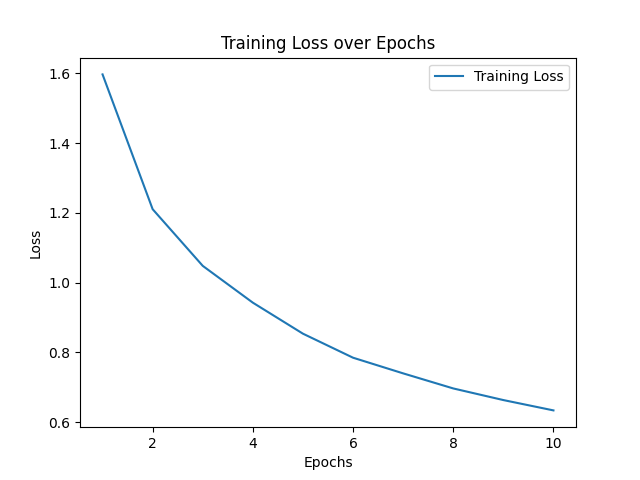
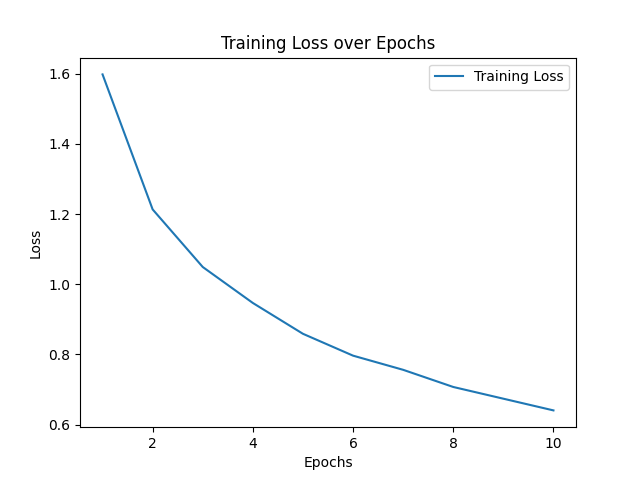
Reduce computational load and improve performance
- Adjusted batch size to reduce memory usage and computational load.
- Optimized data loader settings to enhance data loading efficiency.
- Lowered learning rate for more stable training.
- Implemented Mixed Precision Training using torch.cuda.amp for better performance.
- Updated train_model and evaluate_model functions to prioritize MPS when available, fallback to CUDA or CPU.

diff --git a/src/train.py b/src/train.py
@@ -4,14 +4,16 @@ import torch.nn as nn
 import matplotlib.pyplot as plt
 from src.data_loader import load_data
 import os
+from torch.cuda.amp import GradScaler, autocast
 
-def train_model(model_fn, epochs=10, batch_size=32, learning_rate=0.001, save_path='./results'):
+def train_model(model_fn, epochs=10, batch_size=16, learning_rate=0.0005, save_path='./results'):
     device = torch.device("mps" if torch.backends.mps.is_available() else "cuda" if torch.cuda.is_available() else "cpu")
     trainloader, testloader = load_data(batch_size)
 
     model = model_fn().to(device)
     criterion = nn.CrossEntropyLoss()
     optimizer = optim.Adam(model.parameters(), lr=learning_rate)
+    scaler = GradScaler()
 
     train_losses = []
     for epoch in range(epochs):
@@ -21,10 +23,12 @@ def train_model(model_fn, epochs=10, batch_size=32, learning_rate=0.001, save_pa
             inputs, labels = inputs.to(device), labels.to(device)
 
             optimizer.zero_grad()
-            outputs = model(inputs)
-            loss = criterion(outputs, labels)
-            loss.backward()
-            optimizer.step()
+            with autocast():
+                outputs = model(inputs)
+                loss = criterion(outputs, labels)
+            scaler.scale(loss).backward()
+            scaler.step(optimizer)
+            scaler.update()
 
             running_loss += loss.item()
 

diff --git a/src/evaluate.py b/src/evaluate.py
@@ -2,7 +2,7 @@ import torch
 from src.data_loader import load_data
 import os
 
-def evaluate_model(model, model_fn, batch_size=32, save_path='./results'):
+def evaluate_model(model, model_fn, batch_size=16, save_path='./results'):
     device = torch.device("mps" if torch.backends.mps.is_available() else "cuda" if torch.cuda.is_available() else "cpu")
     _, testloader = load_data(batch_size)
 
